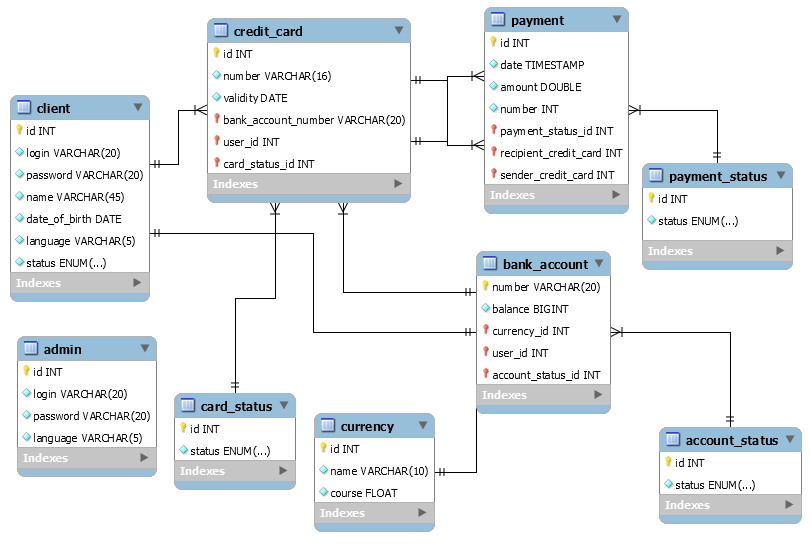
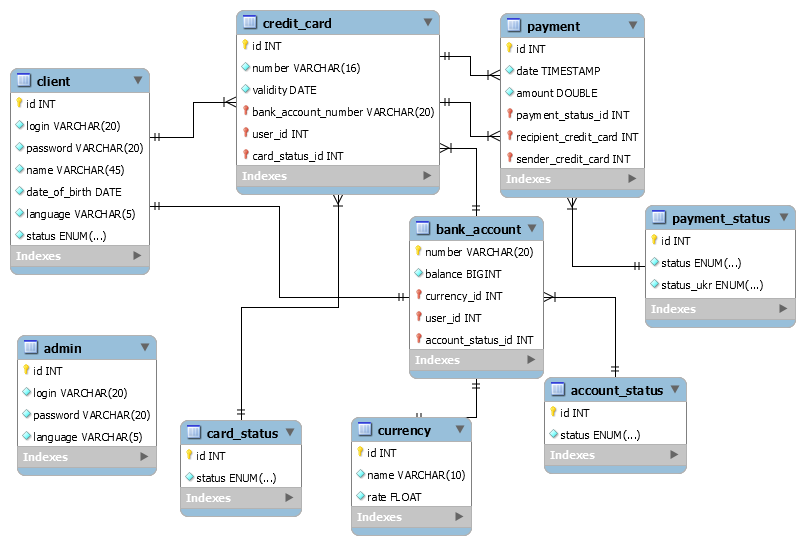
DB localization and fix bug

diff --git a/src/main/java1/ozamkovyi/db/dao/PaymentDao.java b/src/main/java1/ozamkovyi/db/dao/PaymentDao.java
@@ -28,6 +28,7 @@ public class PaymentDao {
                     Fields.TABLE__PAYMENT + "." + Fields.PAYMENT__PAYMENT_STATUS_ID + ", " +
                     Fields.TABLE__PAYMENT + "." + Fields.PAYMENT__SENDER_CREDIT_CARD + "," +
                     Fields.TABLE__PAYMENT + "." + Fields.PAYMENT__RECIPIENT_CREDIT_CARD + ", " +
+                    Fields.TABLE__PAYMENT_STATUS + "." + Fields.PAYMENT_STATUS__STATUS_UA + ", " +
                     Fields.TABLE__PAYMENT_STATUS + "." + Fields.PAYMENT_STATUS__STATUS + " FROM " +
                     Fields.TABLE__PAYMENT + " join " +
                     Fields.TABLE__PAYMENT_STATUS + " join " +
@@ -48,6 +49,7 @@ public class PaymentDao {
                     Fields.TABLE__PAYMENT + "." + Fields.PAYMENT__PAYMENT_STATUS_ID + ", " +
                     Fields.TABLE__PAYMENT + "." + Fields.PAYMENT__SENDER_CREDIT_CARD + "," +
                     Fields.TABLE__PAYMENT + "." + Fields.PAYMENT__RECIPIENT_CREDIT_CARD + ", " +
+                    Fields.TABLE__PAYMENT_STATUS + "." + Fields.PAYMENT_STATUS__STATUS_UA + ", " +
                     Fields.TABLE__PAYMENT_STATUS + "." + Fields.PAYMENT_STATUS__STATUS + " FROM " +
                     Fields.TABLE__PAYMENT + " join " +
                     Fields.TABLE__PAYMENT_STATUS + " join " +
@@ -68,6 +70,7 @@ public class PaymentDao {
                     Fields.TABLE__PAYMENT + "." + Fields.PAYMENT__PAYMENT_STATUS_ID + ", " +
                     Fields.TABLE__PAYMENT + "." + Fields.PAYMENT__SENDER_CREDIT_CARD + "," +
                     Fields.TABLE__PAYMENT + "." + Fields.PAYMENT__RECIPIENT_CREDIT_CARD + ", " +
+                    Fields.TABLE__PAYMENT_STATUS + "." + Fields.PAYMENT_STATUS__STATUS_UA + ", " +
                     Fields.TABLE__PAYMENT_STATUS + "." + Fields.PAYMENT_STATUS__STATUS + " FROM " +
                     Fields.TABLE__PAYMENT + " join " +
                     Fields.TABLE__PAYMENT_STATUS + " join " +
@@ -88,6 +91,7 @@ public class PaymentDao {
                     Fields.TABLE__PAYMENT + "." + Fields.PAYMENT__PAYMENT_STATUS_ID + ", " +
                     Fields.TABLE__PAYMENT + "." + Fields.PAYMENT__SENDER_CREDIT_CARD + "," +
                     Fields.TABLE__PAYMENT + "." + Fields.PAYMENT__RECIPIENT_CREDIT_CARD + ", " +
+                    Fields.TABLE__PAYMENT_STATUS + "." + Fields.PAYMENT_STATUS__STATUS_UA + ", " +
                     Fields.TABLE__PAYMENT_STATUS + "." + Fields.PAYMENT_STATUS__STATUS + " FROM " +
                     Fields.TABLE__PAYMENT + " join " +
                     Fields.TABLE__PAYMENT_STATUS + " join " +
@@ -108,6 +112,7 @@ public class PaymentDao {
                     Fields.TABLE__PAYMENT + "." + Fields.PAYMENT__PAYMENT_STATUS_ID + ", " +
                     Fields.TABLE__PAYMENT + "." + Fields.PAYMENT__SENDER_CREDIT_CARD + "," +
                     Fields.TABLE__PAYMENT + "." + Fields.PAYMENT__RECIPIENT_CREDIT_CARD + ", " +
+                    Fields.TABLE__PAYMENT_STATUS + "." + Fields.PAYMENT_STATUS__STATUS_UA + ", " +
                     Fields.TABLE__PAYMENT_STATUS + "." + Fields.PAYMENT_STATUS__STATUS + " FROM " +
                     Fields.TABLE__PAYMENT + " join " +
                     Fields.TABLE__PAYMENT_STATUS + " join " +
@@ -128,6 +133,7 @@ public class PaymentDao {
                     Fields.TABLE__PAYMENT + "." + Fields.PAYMENT__PAYMENT_STATUS_ID + ", " +
                     Fields.TABLE__PAYMENT + "." + Fields.PAYMENT__SENDER_CREDIT_CARD + "," +
                     Fields.TABLE__PAYMENT + "." + Fields.PAYMENT__RECIPIENT_CREDIT_CARD + ", " +
+                    Fields.TABLE__PAYMENT_STATUS + "." + Fields.PAYMENT_STATUS__STATUS_UA + ", " +
                     Fields.TABLE__PAYMENT_STATUS + "." + Fields.PAYMENT_STATUS__STATUS + " FROM " +
                     Fields.TABLE__PAYMENT + " join " +
                     Fields.TABLE__PAYMENT_STATUS + " join " +
@@ -148,6 +154,7 @@ public class PaymentDao {
                     Fields.TABLE__PAYMENT + "." + Fields.PAYMENT__PAYMENT_STATUS_ID + ", " +
                     Fields.TABLE__PAYMENT + "." + Fields.PAYMENT__SENDER_CREDIT_CARD + "," +
                     Fields.TABLE__PAYMENT + "." + Fields.PAYMENT__RECIPIENT_CREDIT_CARD + ", " +
+                    Fields.TABLE__PAYMENT_STATUS + "." + Fields.PAYMENT_STATUS__STATUS_UA + ", " +
                     Fields.TABLE__PAYMENT_STATUS + "." + Fields.PAYMENT_STATUS__STATUS + " FROM " +
                     Fields.TABLE__PAYMENT + " join " +
                     Fields.TABLE__PAYMENT_STATUS + " join " +
@@ -168,6 +175,7 @@ public class PaymentDao {
                     Fields.TABLE__PAYMENT + "." + Fields.PAYMENT__PAYMENT_STATUS_ID + ", " +
                     Fields.TABLE__PAYMENT + "." + Fields.PAYMENT__SENDER_CREDIT_CARD + "," +
                     Fields.TABLE__PAYMENT + "." + Fields.PAYMENT__RECIPIENT_CREDIT_CARD + ", " +
+                    Fields.TABLE__PAYMENT_STATUS + "." + Fields.PAYMENT_STATUS__STATUS_UA + ", " +
                     Fields.TABLE__PAYMENT_STATUS + "." + Fields.PAYMENT_STATUS__STATUS + " FROM " +
                     Fields.TABLE__PAYMENT + " join " +
                     Fields.TABLE__PAYMENT_STATUS + " join " +
@@ -533,6 +541,7 @@ public class PaymentDao {
                 payment.setSenderCardId(rs.getInt(Fields.TABLE__PAYMENT + "." + Fields.PAYMENT__SENDER_CREDIT_CARD));
                 payment.setRecipientCardId(rs.getInt(Fields.TABLE__PAYMENT + "." + Fields.PAYMENT__RECIPIENT_CREDIT_CARD));
                 payment.setStatusName(rs.getString(Fields.TABLE__PAYMENT_STATUS + "." + Fields.PAYMENT_STATUS__STATUS));
+                payment.setStatusNameUkr(rs.getString(Fields.TABLE__PAYMENT_STATUS + "." + Fields.PAYMENT_STATUS__STATUS_UA));
 
                 return payment;
             } catch (SQLException e) {

diff --git a/src/main/java1/ozamkovyi/db/dao/CreditCardDao.java b/src/main/java1/ozamkovyi/db/dao/CreditCardDao.java
@@ -287,7 +287,7 @@ public class CreditCardDao {
         }
     }
 
-    public int getCountCardByUser(ClientBean client) {
+    public int getCountCardByUser(int id) {
         PreparedStatement pstmt = null;
         ResultSet rs = null;
         Connection con = null;
@@ -295,7 +295,7 @@ public class CreditCardDao {
         try {
             con = DBManager.getInstance().getConnection();
             pstmt = con.prepareStatement(SQL_GET_COUNT_CARD_BY_CLIENT_ID);
-            pstmt.setInt(1, client.getId());
+            pstmt.setInt(1, id);
             rs = pstmt.executeQuery();
             if (rs.next()) {
                 rez = rs.getInt(1);
@@ -310,7 +310,7 @@ public class CreditCardDao {
         return rez;
     }
 
-    public ArrayList<CreditCardBean> getCardList(ClientBean client, int pageNumber, int sortType) {
+    public ArrayList<CreditCardBean> getCardList(int id, int pageNumber, int sortType) {
         ArrayList<CreditCardBean> listOfCreditCard = new ArrayList<>();
         PreparedStatement pstmt = null;
         ResultSet rs = null;
@@ -334,7 +334,7 @@ public class CreditCardDao {
             con = DBManager.getInstance().getConnection();
             pstmt = con.prepareStatement(sort);
             CreditCardBeanMapper mapper = new CreditCardBeanMapper();
-            pstmt.setInt(1, client.getId());
+            pstmt.setInt(1, id);
             pstmt.setInt(2, pageNumber * 10 - 10);
             rs = pstmt.executeQuery();
 
@@ -565,6 +565,8 @@ public class CreditCardDao {
                 creditCard.setUserId(rs.getInt(Fields.TABLE__CREDIT_CARD + "." + Fields.CREDIT_CARD__USER_ID));
                 creditCard.setCardStatusId(rs.getInt(Fields.TABLE__CREDIT_CARD + "." + Fields.CREDIT_CARD__CARD_STATUS_ID));
                 creditCard.setCardStatusName(rs.getString(Fields.TABLE__CARD_STATUS + "." + Fields.CARD_STATUS__STATUS));
+                creditCard.setBalance(rs.getLong(Fields.TABLE__BANK_ACCOUNT + "." + Fields.BANK_ACCOUNT__BALANCE));
+                creditCard.setCurrency(rs.getString(Fields.TABLE__CURRENCY + "." + Fields.CURRENCY__NAME));
                 creditCard.setAccountStatusName(rs.getString(Fields.TABLE__ACCOUNT_STATUS + "." + Fields.ACCOUNT_STATUS__STATUS));
                 return creditCard;
             } catch (SQLException e) {

diff --git a/src/main/java1/ozamkovyi/web/servlet/clientServlets/ClientCardMenuServlet.java b/src/main/java1/ozamkovyi/web/servlet/clientServlets/ClientCardMenuServlet.java
@@ -22,7 +22,7 @@ public class ClientCardMenuServlet extends HttpServlet {
     @Override
     protected void doGet(HttpServletRequest req, HttpServletResponse resp) throws ServletException, IOException {
         HttpSession session = req.getSession();
-        ClientBean currentUser = (ClientBean) session.getAttribute("currentUser");
+        Client currentUser = (Client) session.getAttribute("currentUser");
         Object page = session.getAttribute("pageNumber");
         int pageNumber = 0;
         int sortType = 0;
@@ -33,7 +33,7 @@ public class ClientCardMenuServlet extends HttpServlet {
             System.out.println("page = null");
             sortType = 1;
             pageNumber = 1;
-            listOfCreditCard = new CreditCardDao().getCardList(currentUser, pageNumber, sortType);
+            listOfCreditCard = new CreditCardDao().getCardList(currentUser.getId(), pageNumber, sortType);
             for (CreditCardBean creditCard : listOfCreditCard) {
                 if (!creditCard.isValid()) {
                     new CreditCardDao().blocCard(creditCard);
@@ -42,14 +42,12 @@ public class ClientCardMenuServlet extends HttpServlet {
         } else {
             pageNumber = (int) page;
             sortType = (int) session.getAttribute("sortType");
-            listOfCreditCard = new CreditCardDao().getCardList(currentUser, pageNumber, sortType);
+            listOfCreditCard = new CreditCardDao().getCardList(currentUser.getId(), pageNumber, sortType);
         }
 
-        session.setAttribute("countCard", new CreditCardDao().getCountCardByUser(currentUser));
+        session.setAttribute("countCard", new CreditCardDao().getCountCardByUser(currentUser.getId()));
         session.setAttribute("listOfCreditCard", listOfCreditCard);
-        listOfCreditCard.get(0).getButtonBloc((ResourceBundle) session.getAttribute("resourceBundle"));
-        ArrayList<BankAccountBean> listOfAccountForCreditCard = new BankAccountDao().getAllAccount(currentUser);
-        session.setAttribute("listOfAccountForCreditCard", listOfAccountForCreditCard);
+        session.setAttribute("listOfAccountForCreditCard",  new BankAccountDao().getAllAccount(currentUser));
         getServletContext().getRequestDispatcher("/jsp/clientCardMenu.jsp").forward(req, resp);
 
 

diff --git a/src/main/java1/ozamkovyi/db/dao/BankAccountDao.java b/src/main/java1/ozamkovyi/db/dao/BankAccountDao.java
@@ -296,7 +296,7 @@ public class BankAccountDao {
      *            Client for search.
      * @return count.
      */
-    public int getCountBankAccountByUser(ClientBean client) {
+    public int getCountBankAccountByUser(int id) {
         PreparedStatement pstmt = null;
         ResultSet rs = null;
         Connection con = null;
@@ -304,7 +304,7 @@ public class BankAccountDao {
         try {
             con = DBManager.getInstance().getConnection();
             pstmt = con.prepareStatement(SQL_GET_COUNT_BANK_ACCOUNT_BY_CLIENT_ID);
-            pstmt.setInt(1, client.getId());
+            pstmt.setInt(1, id);
             rs = pstmt.executeQuery();
             if (rs.next()) {
                 rez = rs.getInt(1);
@@ -332,7 +332,7 @@ public class BankAccountDao {
      *              Sorting type
      * @return ArrayList of BankAccount.
      */
-    public ArrayList<BankAccountBean> getAccountList(ClientBean client, int page, int sortType) {
+    public ArrayList<BankAccountBean> getAccountList(int id, int page, int sortType) {
         ArrayList<BankAccountBean> listOfBankAccount = new ArrayList<>();
         PreparedStatement pstmt = null;
         ResultSet rs = null;
@@ -361,7 +361,7 @@ public class BankAccountDao {
         try {
             con = DBManager.getInstance().getConnection();
             pstmt = con.prepareStatement(sort);
-            pstmt.setInt(1, client.getId());
+            pstmt.setInt(1, id);
             BankAccountBeanMapper mapper = new BankAccountBeanMapper();
             pstmt.setInt(2, page * 10 - 10);
             rs = pstmt.executeQuery();

diff --git a/src/main/java1/ozamkovyi/web/servlet/clientServlets/ClientAccountMenuServlet.java b/src/main/java1/ozamkovyi/web/servlet/clientServlets/ClientAccountMenuServlet.java
@@ -21,7 +21,7 @@ public class ClientAccountMenuServlet extends HttpServlet {
     @Override
     protected void doGet(HttpServletRequest req, HttpServletResponse resp) throws ServletException, IOException {
         HttpSession session = req.getSession();
-        ClientBean currentUser = (ClientBean) session.getAttribute("currentUser");
+        Client currentUser = (Client) session.getAttribute("currentUser");
 
         Object page = session.getAttribute("pageNumber");
         int pageNumber = 0;
@@ -35,8 +35,8 @@ public class ClientAccountMenuServlet extends HttpServlet {
             pageNumber = (int) page;
             sortType = (int) session.getAttribute("sortType");
         }
-        session.setAttribute("countAccount", new BankAccountDao().getCountBankAccountByUser(currentUser));
-        ArrayList<BankAccountBean> listOfBankAccount = new BankAccountDao().getAccountList(currentUser, pageNumber, sortType);
+        session.setAttribute("countAccount", new BankAccountDao().getCountBankAccountByUser(currentUser.getId()));
+        ArrayList<BankAccountBean> listOfBankAccount = new BankAccountDao().getAccountList(currentUser.getId(), pageNumber, sortType);
         session.setAttribute("listOfBankAccount", listOfBankAccount);
         ArrayList<Currency> listOfCurrencyForNewAccount = new CurrencyDao().getAllCurrency();
         session.setAttribute("listOfCurrencyForNewAccount", listOfCurrencyForNewAccount);

diff --git a/src/main/java1/ozamkovyi/web/servlet/adminServlets/AllClientServlet.java b/src/main/java1/ozamkovyi/web/servlet/adminServlets/AllClientServlet.java
@@ -102,13 +102,13 @@ public class AllClientServlet extends HttpServlet {
 
             if (req.getParameter("unblockButton " + client.getId()) != null) {
                 if (client.getStatus().equals(Fields.CLIENT_STATUS__BLOCK)) {
-                    ArrayList<BankAccountBean> listOfAcc = new BankAccountDao().getAccountList(client, 1, 1);
+                    ArrayList<BankAccountBean> listOfAcc = new BankAccountDao().getAccountList(client.getId(), 1, 1);
                     for (BankAccountBean account : listOfAcc) {
                         new BankAccountDao().changeStatusFotBankAccount(account, Fields.ACCOUNT_STATUS__EXPECTATION);
                     }
                     new ClientDao().setStatus(client, Fields.CLIENT_STATUS__UNBLOCK);
                 } else {
-                    ArrayList<BankAccountBean> listOfAcc = new BankAccountDao().getAccountList(client, 1, 1);
+                    ArrayList<BankAccountBean> listOfAcc = new BankAccountDao().getAccountList(client.getId(), 1, 1);
                     for (BankAccountBean account : listOfAcc) {
                         new BankAccountDao().changeStatusFotBankAccount(account, Fields.ACCOUNT_STATUS__BLOCKED);
                     }

diff --git a/src/main/java1/ozamkovyi/web/servlet/adminServlets/AllAccountForUserServlet.java b/src/main/java1/ozamkovyi/web/servlet/adminServlets/AllAccountForUserServlet.java
@@ -31,9 +31,9 @@ public class AllAccountForUserServlet extends HttpServlet {
             sortType = (int) session.getAttribute("sortType");
         }
         ClientBean currentClient = (ClientBean) session.getAttribute("currentClient");
-        session.setAttribute("countAccount", new BankAccountDao().getCountBankAccountByUser(currentClient));
+        session.setAttribute("countAccount", new BankAccountDao().getCountBankAccountByUser(currentClient.getId()));
         session.setAttribute("listOfCurrencyForNewAccount", new CurrencyDao().getAllCurrency());
-        session.setAttribute("listOfBankAccount", new BankAccountDao().getAccountList(currentClient, pageNumber, sortType));
+        session.setAttribute("listOfBankAccount", new BankAccountDao().getAccountList(currentClient.getId(), pageNumber, sortType));
         getServletContext().getRequestDispatcher("/jsp/allAccountForUser.jsp").forward(req, resp);
     }
 

diff --git a/src/main/java1/ozamkovyi/web/servlet/adminServlets/AllCardsForUserServlet.java b/src/main/java1/ozamkovyi/web/servlet/adminServlets/AllCardsForUserServlet.java
@@ -32,8 +32,8 @@ public class AllCardsForUserServlet extends HttpServlet {
             sortType = (int) session.getAttribute("sortType");
         }
         ClientBean currentClient = (ClientBean) session.getAttribute("currentClient");
-        session.setAttribute("countCard", new CreditCardDao().getCountCardByUser(currentClient));
-        session.setAttribute("listOfCreditCard", new CreditCardDao().getCardList(currentClient, pageNumber, sortType));
+        session.setAttribute("countCard", new CreditCardDao().getCountCardByUser(currentClient.getId()));
+        session.setAttribute("listOfCreditCard", new CreditCardDao().getCardList(currentClient.getId(), pageNumber, sortType));
         session.setAttribute("listOfAccountForCreditCard", new BankAccountDao().getAllAccount(currentClient));
         getServletContext().getRequestDispatcher("/jsp/allCardsForUser.jsp").forward(req, resp);
     }

diff --git a/src/main/java1/ozamkovyi/db/bean/PaymentBean.java b/src/main/java1/ozamkovyi/db/bean/PaymentBean.java
@@ -12,6 +12,8 @@ public class PaymentBean extends Payment {
 
     private String statusName;
 
+    private String statusNameUkr;
+
     private String recipientCardNumber;
 
     private String recipientName;
@@ -54,6 +56,22 @@ public class PaymentBean extends Payment {
         return CalendarProcessing.fullDate2String(date);
     }
 
+    public String getStatusNameUkr() {
+        return statusNameUkr;
+    }
+
+    public void setStatusNameUkr(String statusNameUkr) {
+        this.statusNameUkr = statusNameUkr;
+    }
+
+    public String getStatusByLocal(String locale){
+        if (locale.equals("ua")){
+            return statusNameUkr;
+        }
+        else{
+            return statusName;
+        }
+    }
 
     public String getButtonNameByStatus(ResourceBundle bundle){
         if (statusName.equals(Fields.PAYMENT_STATUS__PREPARED)){

diff --git a/src/main/java1/ozamkovyi/db/Fields.java b/src/main/java1/ozamkovyi/db/Fields.java
@@ -37,6 +37,7 @@ public final class Fields {
 
     public static final String PAYMENT_STATUS__ID = "id";
     public static final String PAYMENT_STATUS__STATUS = "status";
+    public static final String PAYMENT_STATUS__STATUS_UA = "status_ukr";
 
     public static final String ADMIN__ID = "id";
     public static final String ADMIN__LOGIN = "login";
@@ -58,7 +59,7 @@ public final class Fields {
 
     public static final String CURRENCY__ID = "id";
     public static final String CURRENCY__NAME = "name";
-    public static final String CURRENCY__COURSE = "course";
+    public static final String CURRENCY__COURSE = "rate";
 
     public static final String PAYMENT__ID = "id";
     public static final String PAYMENT__NUMBER = "number";

diff --git a/src/main/java1/ozamkovyi/db/dao/ClientDao.java b/src/main/java1/ozamkovyi/db/dao/ClientDao.java
@@ -159,8 +159,8 @@ public class ClientDao {
 
             while (rs.next()) {
                 ClientBean client = mapper.mapRowForListOfClientForAdmin(rs);
-                client.setCreditCardCount(new CreditCardDao().getCountCardByUser(client));
-                client.setAccountCount(new BankAccountDao().getCountBankAccountByUser(client));
+                client.setCreditCardCount(new CreditCardDao().getCountCardByUser(client.getId()));
+                client.setAccountCount(new BankAccountDao().getCountBankAccountByUser(client.getId()));
                 listOfClient.add(client);
             }
         } catch (SQLException throwables) {
